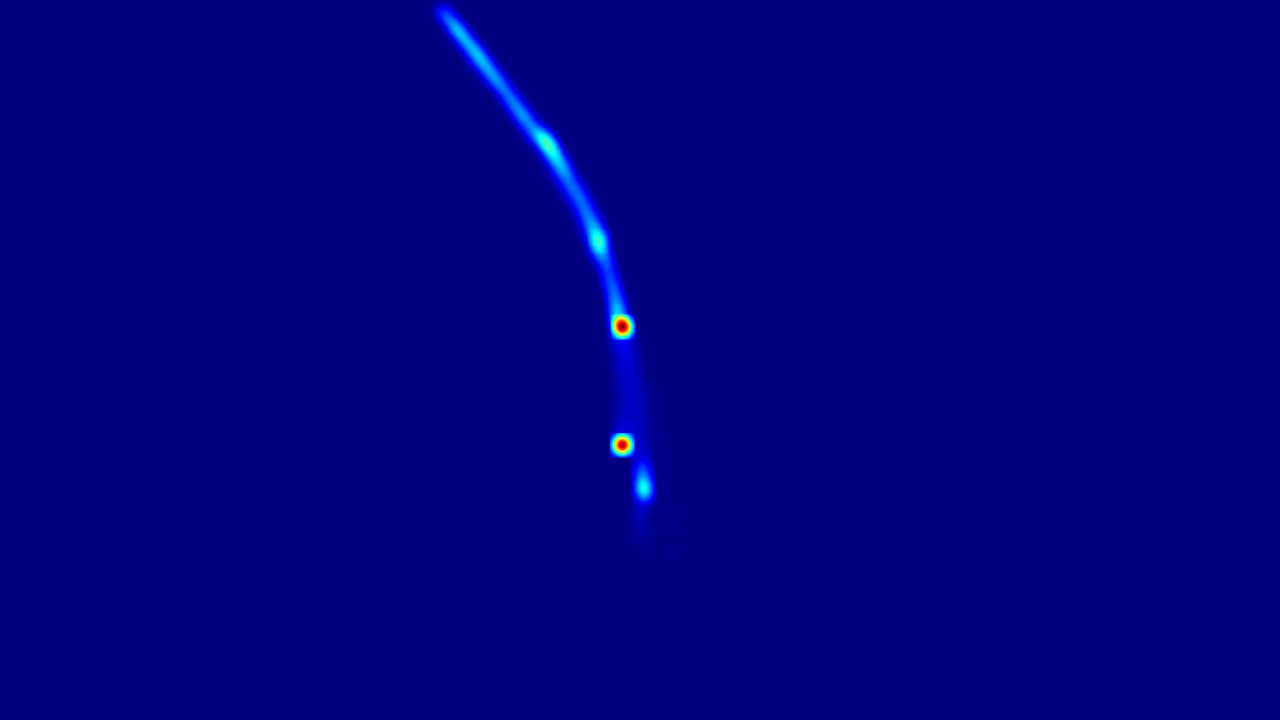
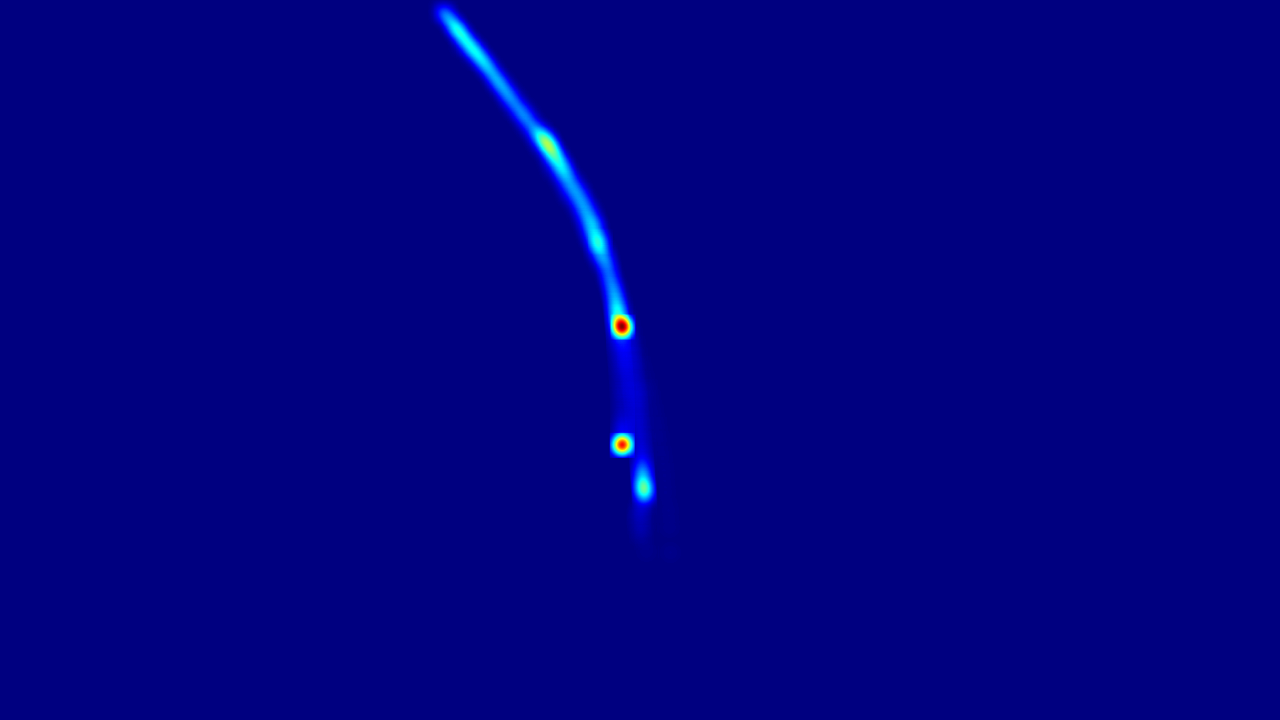
feat: enhance video processing stability and performance

Changed region(s): [[0.4062, 0.1528, 0.5, 0.4583], [0.3438, 0.0, 0.4062, 0.1528], [0.4688, 0.6111, 0.5312, 0.7028]]

diff --git a/backend/core/video_processor.py b/backend/core/video_processor.py
@@ -64,6 +64,8 @@ class VideoProcessor:
         # Tracking stability variables
         self._tracking_history = {}  # Store tracking history for smoothing
         self._stable_labels = {}  # Store stable labels to prevent flickering
+        self._position_history = {}  # Store position history for tracking
+        self._id_mapping = {}  # Map old IDs to new IDs for continuity
     
     def initialize(self):
         """Initialize all components for video processing with video-based schema"""
@@ -229,11 +231,15 @@ class VideoProcessor:
             # Detection and tracking (only when needed for performance)
             if should_process_detection:
                 detections = self._perform_detection_and_tracking(frame)
+                # Apply ID continuity to maintain stable tracking
+                detections = self._maintain_id_continuity(detections)
                 # Store detections for reuse in skipped frames
                 self._last_detections = detections
             else:
-                # Use previous detections for skipped frames (maintains visual consistency)
+                # Use previous detections for skipped frames - keep labels persistent
                 detections = getattr(self, '_last_detections', sv.Detections.empty())
+                # For skipped frames, use the exact same detections and labels
+                # This ensures labels stay in the same position and don't flicker
 
             # License plate blurring is temporarily disabled for performance
             processed_frame = frame.copy()
@@ -275,9 +281,18 @@ class VideoProcessor:
             
             # Process detections with safety check
             try:
-                top_labels, bottom_labels = self.vehicle_processor.process_detections(
-                    detections, anchor_pts, transformed_pts
-                )
+                if should_process_detection:
+                    # Process new detections normally
+                    top_labels, bottom_labels = self.vehicle_processor.process_detections(
+                        detections, anchor_pts, transformed_pts
+                    )
+                    # Store labels for reuse in skipped frames
+                    self._last_top_labels = top_labels
+                    self._last_bottom_labels = bottom_labels
+                else:
+                    # For skipped frames, reuse the exact same labels
+                    top_labels = getattr(self, '_last_top_labels', [])
+                    bottom_labels = getattr(self, '_last_bottom_labels', [])
                 
                 # Apply tracking smoothing for stable labels
                 if Config.ENABLE_TRACKING_SMOOTHING:
@@ -480,6 +495,71 @@ class VideoProcessor:
         
         # Heat map accumulation
         self.heat_map.accumulate(detections)
+        
+        return detections
+    
+    def _maintain_id_continuity(self, detections):
+        """Maintain ID continuity to prevent label jumping"""
+        if len(detections) == 0:
+            return detections
+        
+        # Update position history for all detections
+        for i, track_id in enumerate(detections.tracker_id):
+            if hasattr(detections, 'xyxy') and i < len(detections.xyxy):
+                bbox = detections.xyxy[i]
+                center_x = (bbox[0] + bbox[2]) / 2
+                center_y = (bbox[1] + bbox[3]) / 2
+                
+                if track_id not in self._position_history:
+                    self._position_history[track_id] = []
+                
+                self._position_history[track_id].append((center_x, center_y))
+                
+                # Keep only recent positions
+                if len(self._position_history[track_id]) > 10:
+                    self._position_history[track_id] = self._position_history[track_id][-10:]
+        
+        # Try to match new detections with existing tracks
+        new_tracker_ids = []
+        for i, track_id in enumerate(detections.tracker_id):
+            if track_id in self._id_mapping:
+                # Use existing mapped ID
+                new_tracker_ids.append(self._id_mapping[track_id])
+            else:
+                # Check if this detection matches a previous track by position
+                if hasattr(detections, 'xyxy') and i < len(detections.xyxy):
+                    bbox = detections.xyxy[i]
+                    center_x = (bbox[0] + bbox[2]) / 2
+                    center_y = (bbox[1] + bbox[3]) / 2
+                    
+                    # Find closest previous track
+                    best_match_id = None
+                    min_distance = float('inf')
+                    
+                    for old_id, positions in self._position_history.items():
+                        if len(positions) > 0:
+                            last_pos = positions[-1]
+                            distance = ((center_x - last_pos[0])**2 + (center_y - last_pos[1])**2)**0.5
+                            
+                            # If close enough and not already mapped
+                            if distance < 50 and old_id not in self._id_mapping.values():
+                                if distance < min_distance:
+                                    min_distance = distance
+                                    best_match_id = old_id
+                    
+                    if best_match_id is not None:
+                        # Map new ID to existing ID
+                        self._id_mapping[track_id] = best_match_id
+                        new_tracker_ids.append(best_match_id)
+                    else:
+                        # New track, keep original ID
+                        new_tracker_ids.append(track_id)
+                else:
+                    new_tracker_ids.append(track_id)
+        
+        # Update tracker IDs with stable IDs
+        if len(new_tracker_ids) == len(detections.tracker_id):
+            detections.tracker_id = new_tracker_ids
         
         return detections
     

diff --git a/backend/config/config.py b/backend/config/config.py
@@ -17,15 +17,15 @@ class Config:
     SOURCE_POLYGON = np.array([(422, 10), (594, 16), (801, 665), (535, 649)])  # Detection area polygon coordinates
     STOP_ZONE_POLYGON = np.array([(507, 199), (681, 209), (751, 555), (484, 541)])  # Stop zone polygon coordinates
     
-    # Thresholds - Optimized for Stable Tracking
+    # Thresholds - Optimized for Performance
     TARGET_WIDTH, TARGET_HEIGHT = 50, 130  # Target dimensions for perspective transformation
-    DETECTION_CONFIDENCE = 0.3  # Minimum confidence threshold for object detection (Reduced: 0.3 for more stable tracking)
-    NMS_THRESHOLD = 0.4  # Non-Maximum Suppression threshold to remove duplicate detections (Reduced: 0.4 for better tracking stability)
+    DETECTION_CONFIDENCE = 0.25  # Minimum confidence threshold for object detection (Original: 0.25 for better detection)
+    NMS_THRESHOLD = 0.3  # Non-Maximum Suppression threshold to remove duplicate detections (Original: 0.3 for better detection)
     VELOCITY_THRESHOLD = 0.6  # Threshold to determine if vehicle is stationary in pixels/frame (Range: 0.1-2.0, Recommended: 0.5-1.0 based on video resolution)
-    FRAME_BUFFER = 10  # Number of frames to buffer for velocity calculation (Increased: 10 for more stable tracking)
-    DETECTION_OVERLAP_THRESHOLD = 0.3  # IoU threshold for merging overlapping detections (Reduced: 0.3 for better tracking)
-    CLASS_CONFIDENCE_THRESHOLD = 0.6  # Confidence threshold for stable class assignment (Reduced: 0.6 for faster classification)
-    CLASS_HISTORY_FRAMES = 5  # Number of frames to track for class consistency (Reduced: 5 for faster classification)
+    FRAME_BUFFER = 5  # Number of frames to buffer for velocity calculation (Optimized: 5 for faster processing)
+    DETECTION_OVERLAP_THRESHOLD = 0.5  # IoU threshold for merging overlapping detections (Range: 0.3-0.8, Recommended: 0.5-0.6 for optimal merging)
+    CLASS_CONFIDENCE_THRESHOLD = 0.5  # Confidence threshold for stable class assignment (Original: 0.5 for better detection)
+    CLASS_HISTORY_FRAMES = 10  # Number of frames to track for class consistency (Range: 3-20, Recommended: 5-15 frames)
     
     # Video Settings - Optimized for Performance
     TARGET_FPS = 15  # Target frames per second for output video (Optimized: 15 for faster processing)
